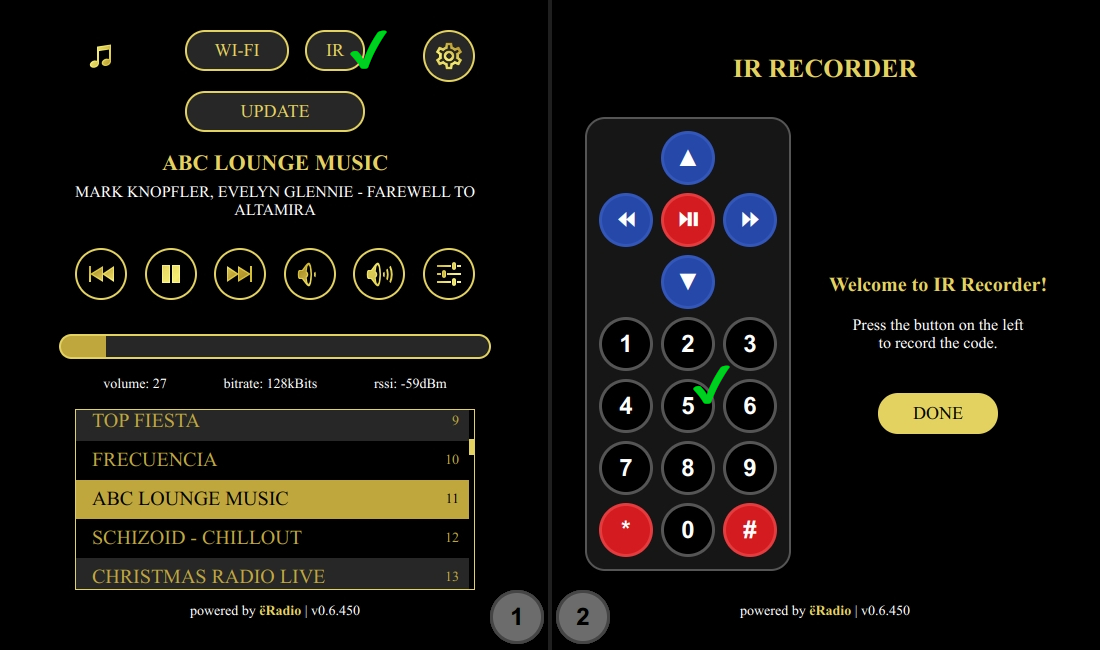
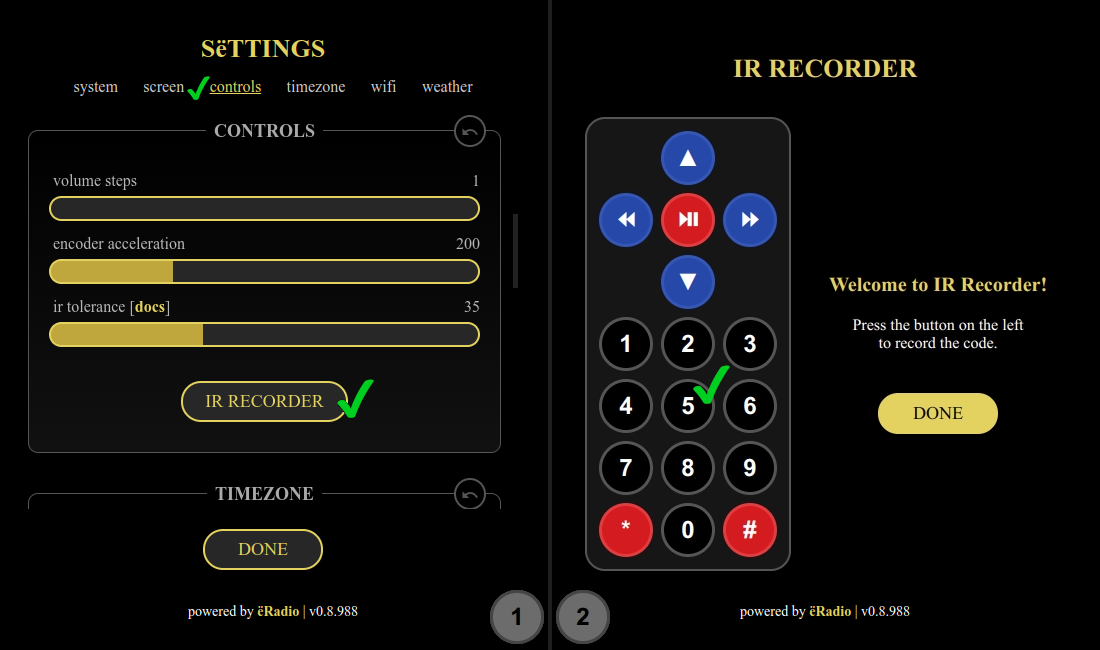
v0.8.990

diff --git a/yoRadio/src/core/options.h b/yoRadio/src/core/options.h
@@ -1,7 +1,7 @@
 #ifndef options_h
 #define options_h
 
-#define YOVERSION "0.8.988"
+#define YOVERSION "0.8.990"
 
 /*******************************************************
 DO NOT EDIT THIS FILE. 

diff --git a/Controls.md b/Controls.md
@@ -55,7 +55,7 @@ You can connect one or two encoders to replace/complete the buttons. One encoder
 ---
 ### IR receiver
 Starting from version 0.6.450, adding an IR remote control has been moved to the web interface. Can be added for up to three remotes.
-1. go to Settings - IR (fig.1)
+1. go to Settings >> controls >> IR Recorder (fig.1)
 2. press the button you need on the left to record the IR code (fig.2)
 
 <img src="images/irRecorder01.png" width="830" height="490"><br>

diff --git a/README.md b/README.md
@@ -222,6 +222,10 @@ Work is in progress...
 
 ---
 ## Version history
+#### v0.8.990
+- fixed error displaying access point credentials when DSP_INVERT_TITLE is false
+- fixed compilation error for OLED displays when DSP_INVERT_TITLE is false
+
 #### v0.8.988
 - **DSP_INVERT_TITLE** now works for all displays when assigned
    ```#define DSP_INVERT_TITLE false```
